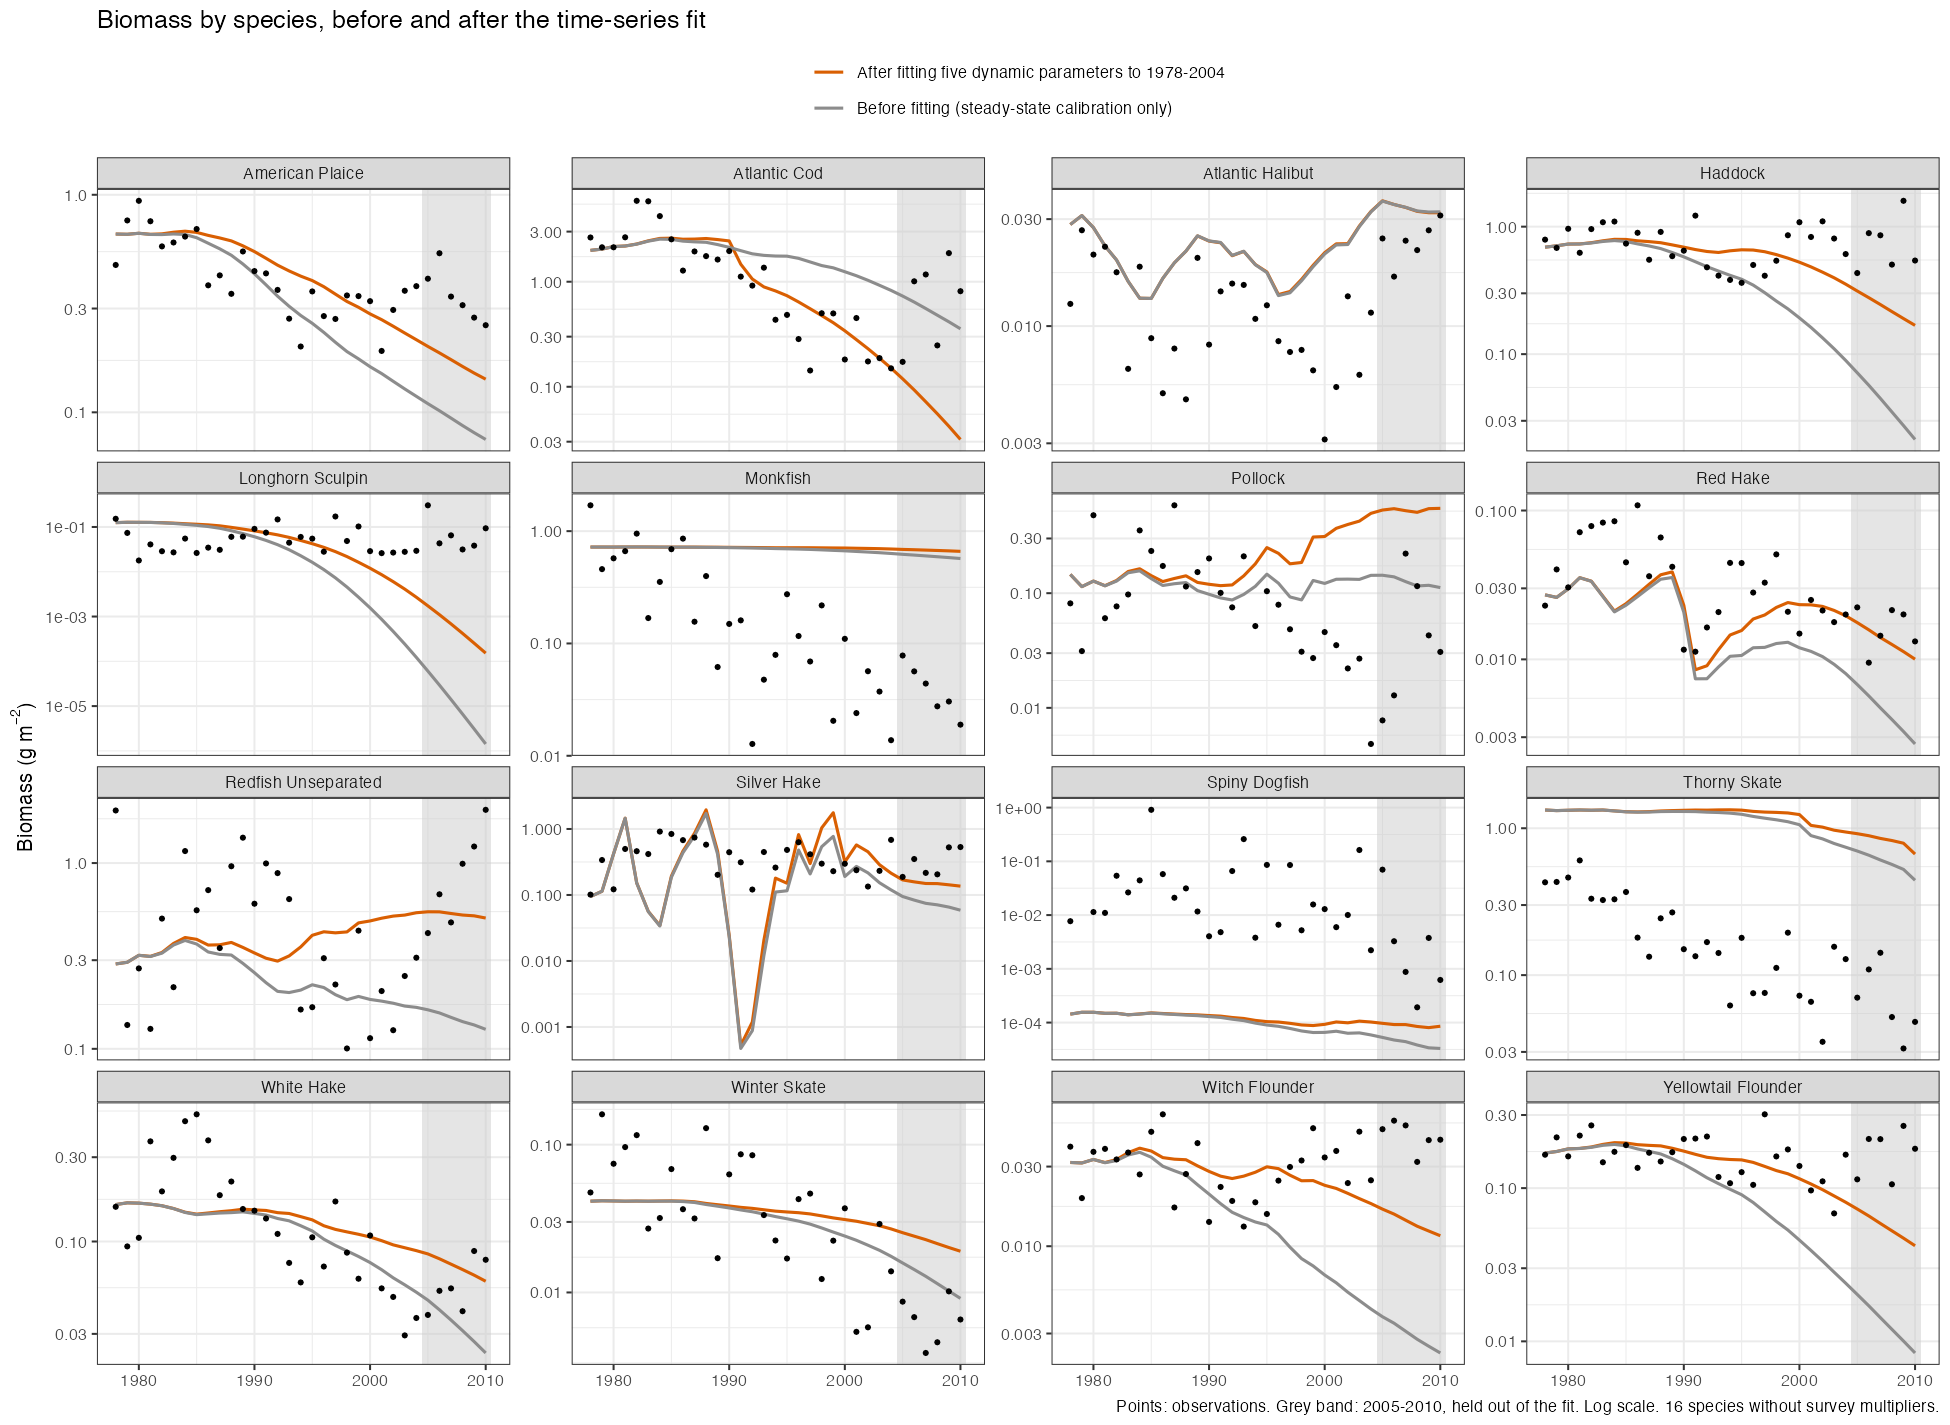
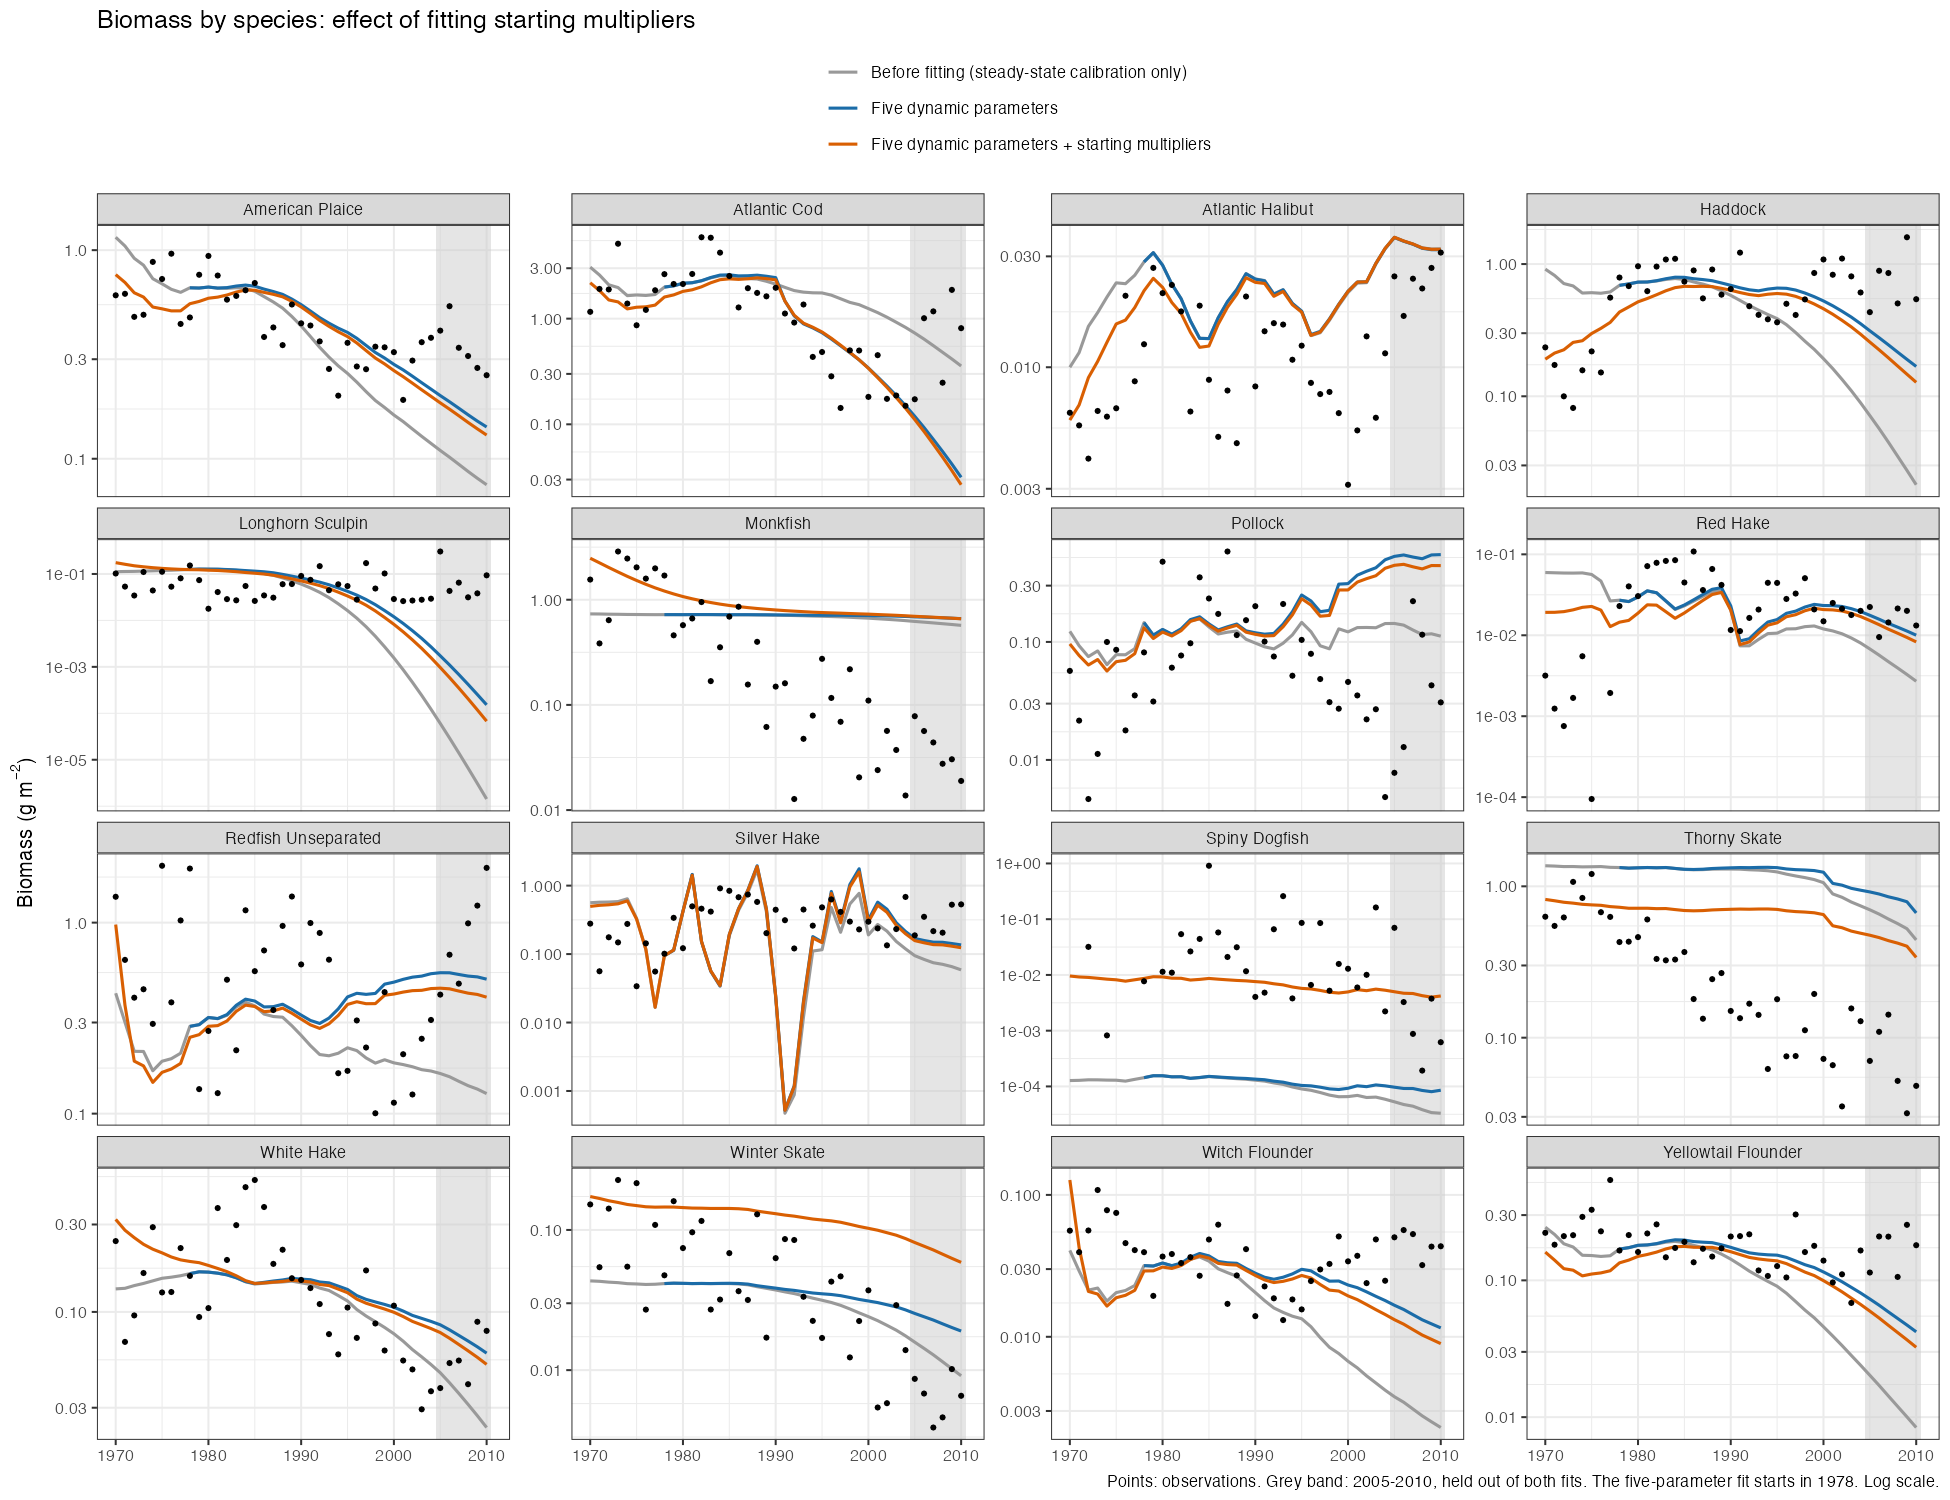
Fit starting abundance multipliers in script 10
Script 10 now also estimates one starting multiplier per fitted species,
applied at 1961, alongside the five dynamic parameters, fitting 1970-2004
with 2005-2010 held out. The biomass bias had been traced to species
entering the data period far from their calibrated state: spiny dogfish at
1% of it, thorny skate at 2.8 times it.

All three starting points agree on every value. Resetting each multiplier
to 1 shows three are well supported (dogfish x89, winter skate x4.3,
monkfish x5.4), seven cost nothing to remove, and three are extreme and
weakly supported (redfish x158, witch flounder x524, haddock x0.013).
The mismatch falls from 0.615 to 0.328, most of it from dogfish alone.
The typical species is not better fitted and the held-out years are
slightly worse than with the five parameters alone.

diff --git a/HANDOVER_2026-11-26.md b/HANDOVER_2026-11-26.md
@@ -1540,6 +1540,104 @@ project folder; to adopt renv fully, run `renv::init()` and choose to use the
 existing lockfile.
 
 
+---
+
+## 24. Biomass bias traced to the starting state; starting multipliers fitted
+
+**Where the biomass bias comes from** (five-parameter fit of §22):
+
+1. *Displacement during the spin-up.* The model is calibrated to 1978-1981 but
+   run from 1861, and effort before 1978 differs from the 1978-1981 mean. By
+   1978 several species are far from their calibrated state: spiny dogfish at
+   0.01 of it, thorny skate 2.8x, longhorn sculpin 2.3x, halibut 1.4x, winter
+   skate 0.48x, silver hake 0.38x. Cod, haddock, the flatfish and monkfish
+   arrive within 0.84-0.98. Dogfish's hundred-fold misfit is entirely this.
+2. *Target below the survey.* For redfish (0.50), pollock (0.57), sculpin (0.75)
+   and silver hake (0.81) the calibration target is lower than the survey mean
+   for 1978-81; the rest are within 15%. Not traced.
+3. *Wrong trend after 1981.* Pollock and monkfish stay flat or rise while the
+   survey falls; sculpin collapses in the model only.
+
+Not a source: comparing the model's biomass over all sizes with the survey. At
+least 77% of modelled biomass is above each species' survey size cut-off.
+
+**Starting multipliers in script 10.** At Julia's request the script now also
+fits one starting abundance multiplier per fitted species (16), applied at the
+start of 1961 so the correction covers the FishMIP output period. Runs start
+from the 1961 spun-up state; the fit is to 1970-2004, with 2005-2010 held out.
+That is 21 parameters and takes about 75 minutes on 11 cores.
+
+**Are the multipliers identified?** Numerically yes: all three starting points
+reach the same mismatch (0.3277) and the same value for every multiplier, to
+within a few percent. Whether each one MATTERS is a different question, answered
+by resetting it to 1:
+
+| species | multiplier | mismatch lost if reset to 1 |
+|---|---|---|
+| Spiny Dogfish | x89 | 0.2455 |
+| Winter Skate | x4.3 | 0.0261 |
+| Monkfish | x5.4 | 0.0197 |
+| Longhorn Sculpin | x2.7 | 0.0054 |
+| White Hake | x7.2 | 0.0031 |
+| Thorny Skate | x0.63 | 0.0025 |
+| Redfish | x158 | 0.0020 |
+| Haddock | x0.013 | 0.0012 |
+| Witch Flounder | x524 | 0.0012 |
+| Red hake, plaice, cod, silver hake, pollock, yellowtail, halibut | 0.14 to 0.95 | 0.0002 or less |
+
+- Three are well supported: dogfish, winter skate and monkfish, the slow
+  species that remember their start.
+- Seven cost nothing to remove and should be treated as 1.
+- Three are extreme and weakly supported: redfish x158, witch flounder x524 and
+  haddock x0.013. The plot shows what they are doing: redfish and witch flounder
+  jump at 1970 and fall back to the unfitted path within about three years, so
+  the optimiser is using a huge multiplier to chase one or two survey points at
+  the start of the series. Haddock's is more defensible in kind (the survey
+  really is low in the early 1970s) but the value is still extreme. None of the
+  three should be read as an estimate of 1961 abundance.
+
+**What the fit gained, and what it did not.**
+
+| | mismatch 1970-2004 |
+|---|---|
+| no change | 0.615 |
+| everything fitted | 0.328 |
+| without the starting multipliers | 0.567 |
+| without the five dynamic parameters | 0.368 |
+
+The multipliers account for most of the drop, and dogfish alone for 0.25 of the
+0.29. The mismatch is a mean over species, so one species that is a hundred
+times out dominates it.
+
+| 16 species | no change | five parameters (§22, fitted from 1978) | with multipliers |
+|---|---|---|---|
+| biomass to 2004: within 2x, median RMSE | 12/16, 0.44 | 13/16, 0.36 | 12/16, 0.48 |
+| biomass 2005-2010 (held out): bias, median RMSE | x0.28, 0.77 | x0.60, 0.54 | x0.59, 0.64 |
+| catch to 2004: within 2x | 11/15 | 11/15 | 10/15 |
+| total biomass 2010, g/m2 (survey about 4) | 1.84 | 3.04 | 2.45 |
+| cod 1994-2004 rel. to 1978-81 (obs. 0.13) | 0.64 | 0.21 | 0.25 |
+
+(The two fits cover different years, 1978-2004 and 1970-2004, so the "to 2004"
+rows are not strictly like for like.)
+
+So the starting multipliers fix the level of dogfish and improve the early
+years of winter skate and monkfish, but they do not improve the typical
+species, and the held-out years are slightly worse than with the five
+parameters alone. Winter skate shows why: a higher start fits the early 1970s
+and then leaves it too high later, because the model still does not make it
+decline. A starting value cannot repair a wrong trend.
+
+The five dynamic parameters are stable with the multipliers added: seal rise
+multiplier 0.55, extra cod mortality 0.62, trawl catchability kept on cod 0.39
+and haddock 0.21, no seal saturation.
+
+**Suggested use.** Keep multipliers only for the species where they are
+supported (dogfish, winter skate, monkfish, possibly sculpin, white hake and
+thorny skate) and fix the rest at 1. That would cut the fit to about ten
+parameters and a fraction of the run time. Not done; the script as committed
+fits all 16.
+
+
 ## Commits on `julia`
 
 ```
